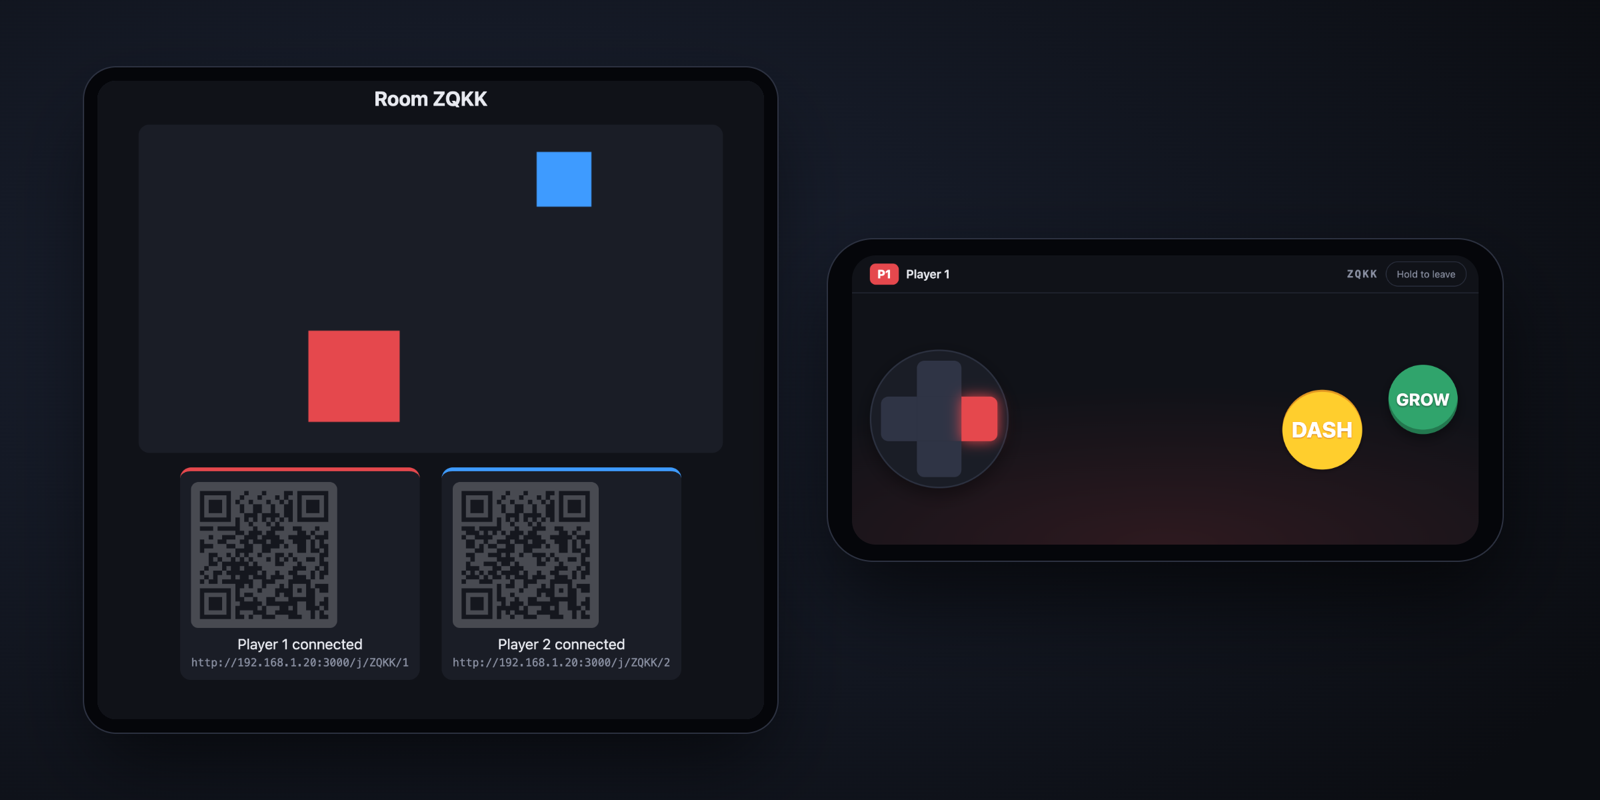
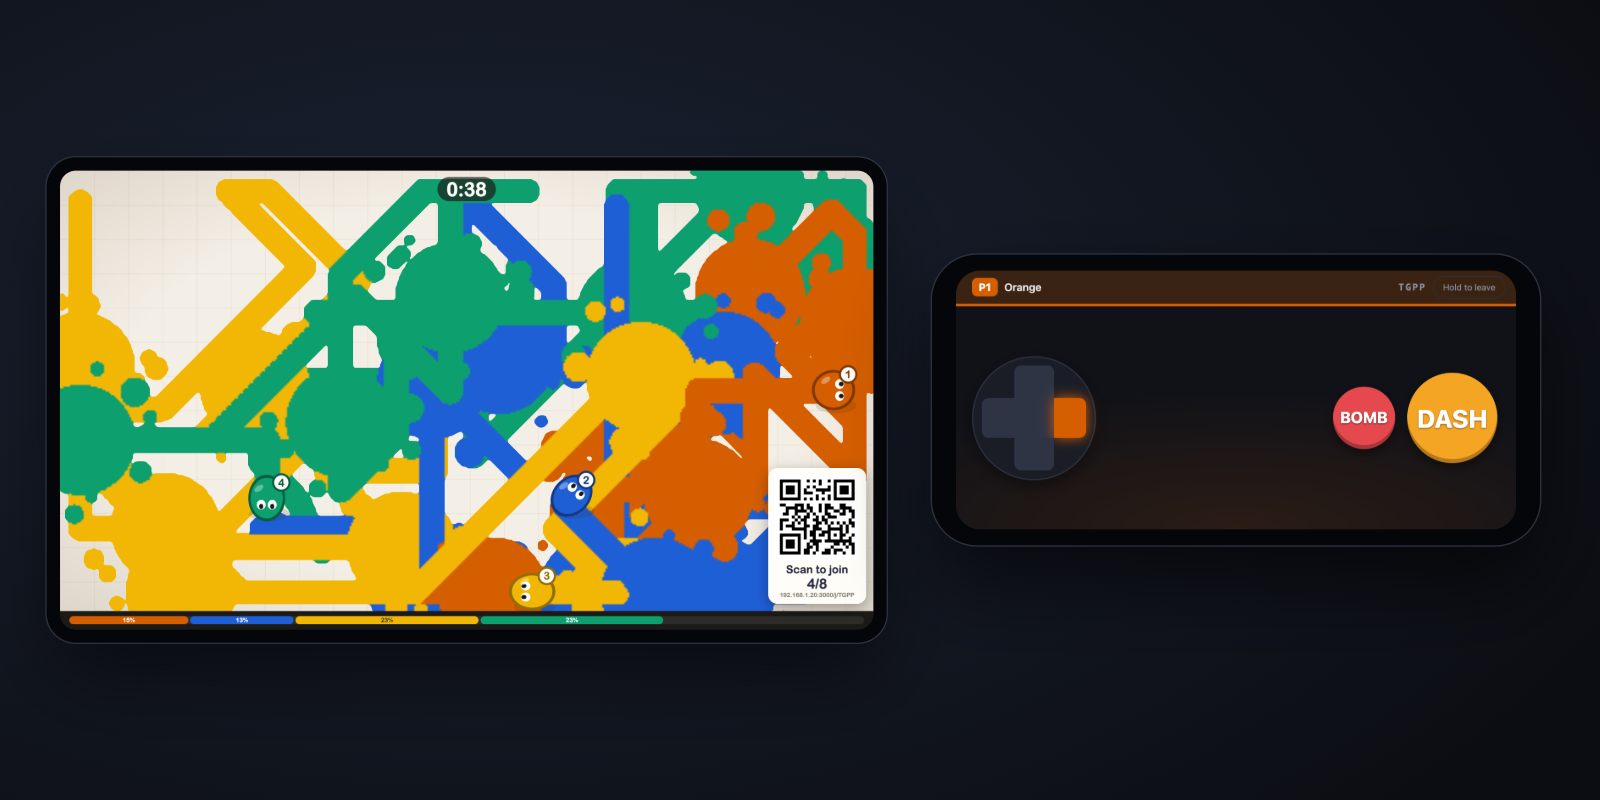
README: Paint Party hero image and live demo block; one QR for everyone in the docs

diff --git a/README.md b/README.md
@@ -5,15 +5,17 @@ player scans it, and their phone becomes a controller. No accounts, no app
 install: one small self-hosted Node server and a few lines in your game. Made
 for local multiplayer and party games on a laptop or TV.
 
-**[Try it live: Paint Party](https://joinstick.fly.dev/demo/paint-party)**:
-open it on a big screen and scan the QR code with phones (1-8 players).
-
 [![npm](https://img.shields.io/npm/v/joinstick)](https://www.npmjs.com/package/joinstick)
 [![license: MIT](https://img.shields.io/badge/license-MIT-blue)](LICENSE)
 [![node >= 22](https://img.shields.io/badge/node-%3E%3D22-339933)](package.json)
 [![CI](https://github.com/raprav/joinstick/actions/workflows/ci.yml/badge.svg)](https://github.com/raprav/joinstick/actions/workflows/ci.yml)
 
-<p align="center"><img src="https://raw.githubusercontent.com/raprav/joinstick/main/docs/hero.png" alt="Left: the example game on a laptop, showing a room code, two moving squares and a QR code per player. Right: a phone held sideways showing the Joinstick pad with a d-pad and two buttons." width="800"></p>
+<p align="center"><a href="https://joinstick.fly.dev/demo/paint-party"><img src="https://raw.githubusercontent.com/raprav/joinstick/main/docs/hero.png" alt="Left: Paint Party on a TV mid-round, four paint blobs covering the floor and one QR code in the corner that every player scans. Right: a phone held sideways showing player 1's orange pad with a d-pad and BOMB and DASH buttons." width="800"></a></p>
+
+**[Live demo: Paint Party](https://joinstick.fly.dev/demo/paint-party)**. Open it on a big screen and scan the QR
+with phones: one QR for everyone, drop in or out anytime, 1-8 players, haptics
+on Android. Its source is a single file in
+[`examples/paint-party`](examples/paint-party) that uses only the public SDK.
 
 ## Quick start
 
@@ -80,8 +82,9 @@ needs HTTPS too (see Self-hosting).
                                 └──────────────────┘
 ```
 
-The game creates a room (`KQZX`) with up to 8 player slots. Each slot has a QR
-code that opens `/j/KQZX/<slot>` on a phone. The phone sends its controller
+The game creates a room (`KQZX`) with up to 8 player slots. One QR code opens
+`/j/KQZX` on any phone, which takes the first free slot (`/j/KQZX/<slot>` asks
+for a specific one). The phone sends its controller
 state on every change; your game reads `room.input(n)` once per frame. All
 traffic goes through your server; nothing leaves your network unless you put
 it on the internet.

diff --git a/AGENTS.md b/AGENTS.md
@@ -1,9 +1,9 @@
 # Joinstick for coding agents
 
 Joinstick turns phones into gamepads for browser games. The game page (the
-**host**) shows one QR code per player slot; a player scans it and the phone
-becomes a controller. Read this file before integrating; it is the whole
-contract. Wire format: [PROTOCOL.md](PROTOCOL.md). Types:
+**host**) shows a QR code; each player scans it and their phone becomes a
+controller in the first free slot (per-slot QR codes exist too). Read this
+file before integrating; it is the whole contract. Wire format: [PROTOCOL.md](PROTOCOL.md). Types:
 [`public/host.d.ts`](public/host.d.ts), [`public/client.d.ts`](public/client.d.ts).
 
 ## 1. Run the server
